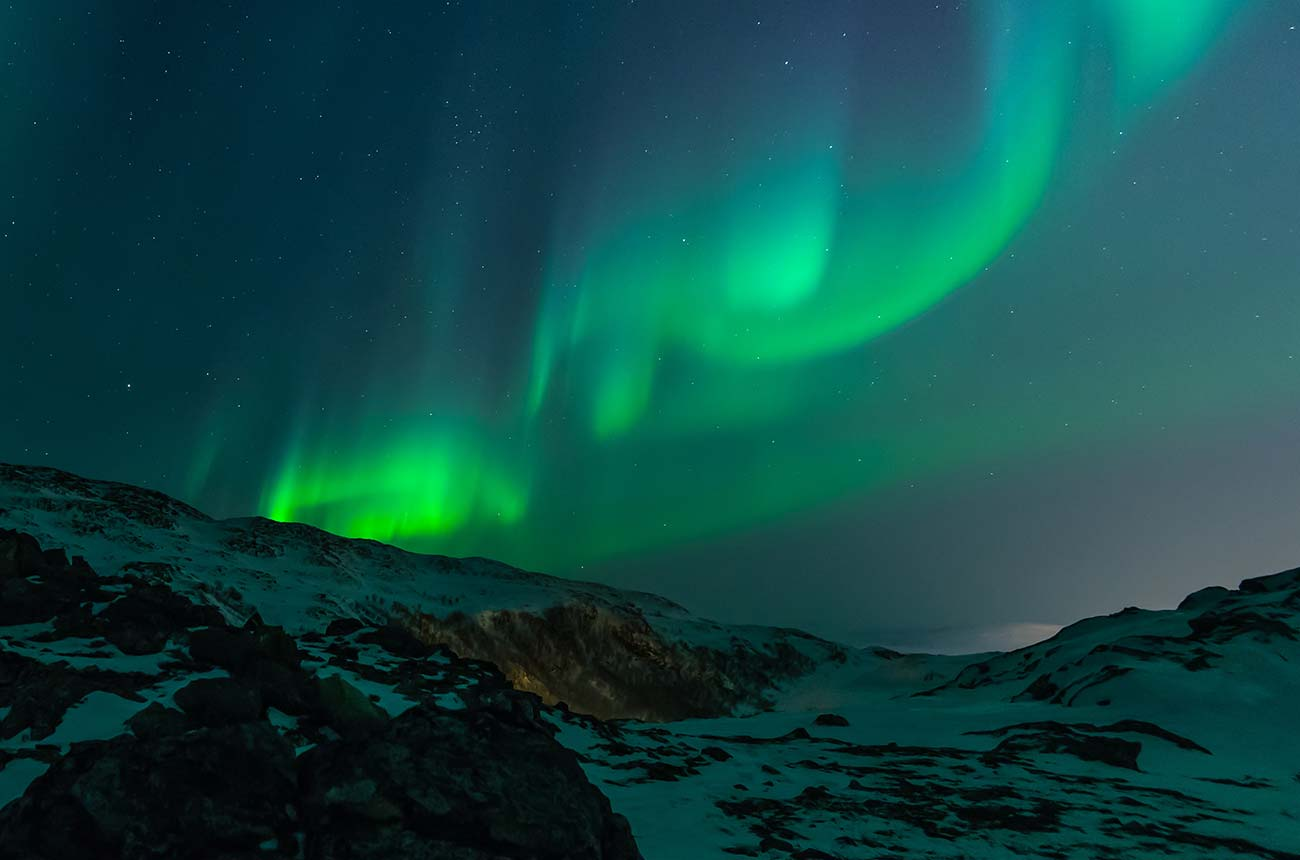
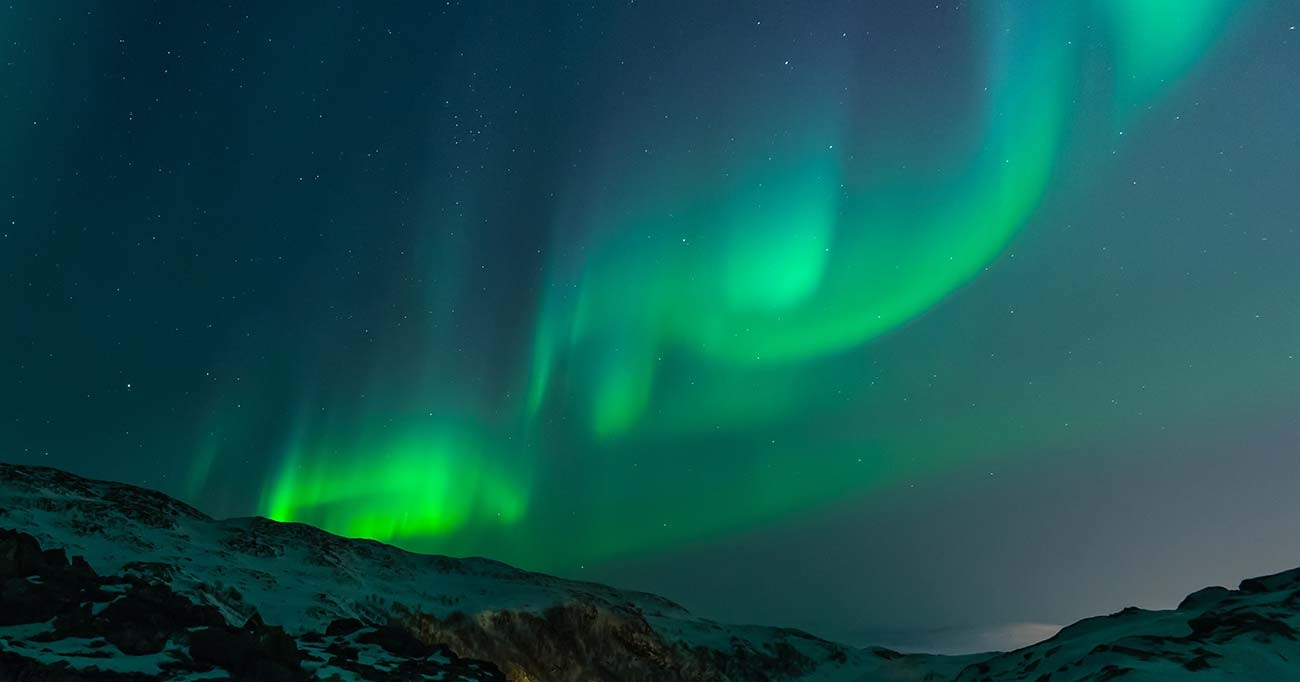
Готовая страница с фото и стилями

diff --git a/the-road-ahead.html b/the-road-ahead.html
@@ -1,34 +1,61 @@
 <!DOCTYPE html>
 <html>
     <head>
+    <link href="C:/Users/User/Desktop/Far manager/!WEB_LABS/WebCourse/styles.css" rel="stylesheet">
     <title> The Road Ahead </title>
-    <style>
-        .frame1 
-          {
-            width: 940px;
-            height: 40px;
-            top: 17px;
-            left: 250px;
-            background: #df3e3e;
-            padding: 5px;
-            padding-right: 20px;
-            float: left;
-          }
-    </style>
-
     </head>
     <body>
-        <h1> Hello World</h1>
-        <div class="frame1">
-              
+      <p class="Escape">Escape.</p>
+      <div class="CategoriesLinks">
+        <a class="HOME"> HOME </a> <a class="CATEGORIES"> CATEGORIES </a> 
+        <a class="ABOUT" >ABOUT </a> <a class="CONTACT"> CONTACT </a>
+      </div>
+      <h1 class="MainHeader"> The Road Ahead </h1>
+      <p class="Desc">The road ahead might be paved - it might not be.</p>
+      <img src="C:/Users/User/Desktop/Far manager/!WEB_LABS/WebCourse/image.png" class="Image" alt="Unfound Picture">
+      <div class="Text">
+      <p> 
+          Dark spruce forest frowned on either side the frozen waterway. The trees had been stripped by a recent wind of their white 
+          covering of frost, and they seemed to lean towards each other, black and ominous, in the fading light. A vast silence reigned 
+          over the land. The land itself was a desolation, lifeless, without movement, so lone and cold that the spirit of it was not 
+          even that of sadness. There was a hint in it of laughter, but of a laughter more terrible than any sadness—a laughter that was 
+          mirthless as the smile of the sphinx, a laughter cold as the frost and partaking of the grimness of infallibility. It was the 
+          masterful and incommunicable wisdom of eternity laughing at the futility of life and the effort of life. It was the Wild, the 
+          savage, frozen-hearted Northland Wild. 
+      </p>
+      <p> 
+          But there was life, abroad in the land and defiant. Down the frozen waterway toiled a string of wolfish dogs. Their bristly 
+          fur was rimed with frost. Their breath froze in the air as it left their mouths, spouting forth in spumes of vapour that 
+          settled upon the hair of their bodies and formed into crystals of frost. Leather harness was on the dogs, and leather traces 
+          attached them to a sled which dragged along behind. The sled was without runners. It was made of stout birch-bark, and its 
+          full surface rested on the snow. The front end of the sled was turned up, like a scroll, in order to force down and under 
+          the bore of soft snow that surged like a wave before it. On the sled, securely lashed, was a long and narrow oblong box. 
+          There were other things on the sled—blankets, an axe, and a coffee-pot and frying-pan; but prominent, occupying most of the 
+          space, was the long and narrow oblong box. </p>
+      <p> 
+          In advance of the dogs, on wide snowshoes, toiled a man. At the rear of the sled toiled a second man. On the sled, in the box,
+          lay a third man whose toil was over,—a man whom the Wild had conquered and beaten down until he would never move nor struggle 
+          again. It is not the way of the Wild to like movement. Life is an offence to it, for life is movement; and the Wild aims 
+          always to destroy movement. It freezes the water to prevent it running to the sea; it drives the sap out of the trees till 
+          they are frozen to their mighty hearts; and most ferociously and terribly of all does the Wild harry and crush into submission
+          man—man who is the most restless of life, ever in revolt against the dictum that all movement must in the end come to the 
+          cessation of movement. 
+      </p>
+      <p> 
+          But at front and rear, unawed and indomitable, toiled the two men who were not yet dead. Their bodies were covered with fur 
+          and soft-tanned leather. Eyelashes and cheeks and lips were so coated with the crystals from their frozen breath that their 
+          faces were not discernible. This gave them the seeming of ghostly masques, undertakers in a spectral world at the funeral of 
+          some ghost. But under it all they were men, penetrating the land of desolation and mockery and silence, puny adventurers bent 
+          on colossal adventure, pitting themselves against the might of a world as remote and alien and pulseless as the abysses of 
+          space. 
+      </p>
+      </div>
+      <footer>
+        <p class="Escape">Escape.</p>
+        <div class="CategoriesLinks">
+          <a class="HOME"> HOME </a> <a class="CATEGORIES"> CATEGORIES </a> 
+          <a class="ABOUT" >ABOUT </a> <a class="CONTACT"> CONTACT </a>
         </div>
-        <img
-        class="fit-picture"
-        src="C:\Users\User\Desktop\Far manager\!WEB_LABS\LAB1\image.png"
-        Width="1440px"
-        Height="534px"
-        Top="360px"
-        Radius="3px" 
-        />
+      </footer>
     </body>
 </html>

diff --git a/styles.css b/styles.css
@@ -1,0 +1,153 @@
+.Escape
+{
+  height: 26px;
+  width: 92px;
+  margin-left: 250px;
+  margin-top: 20px;
+  color: rgba(46, 46, 46, 1);
+  font-family: Lora;
+  font-size: 26px;
+  font-weight: 400;
+  line-height: 26px;
+  letter-spacing: 0em;
+  text-align: left;
+  display: inline;  
+}
+.CategoriesLinks
+{
+  color: rgba(46, 46, 46, 1);    
+  font-family: Oxygen;
+  font-size: 12px;
+  font-weight: 400;
+  line-height: 20px;
+  letter-spacing: 0.6000000238418579px;
+  text-align: left;    
+  display: inline;
+}
+.HOME
+{
+  width: 39px;
+  height: 20px;
+  margin-top: 27px;
+  margin-left: 491px; 
+}
+.CATEGORIES
+{
+  width: 78px;
+  height: 20px;
+  margin-top: 27x;
+  margin-left: 41px;       
+}
+.ABOUT
+{
+  width: 78px;
+  height: 20px;
+  margin-top: 27x;
+  margin-left: 40px;       
+}
+.CONTACT
+{
+  width: 78px;
+  height: 20px;
+  margin-top: 27x;
+  margin-left: 40px;       
+}
+.MainHeader
+{
+  height: 51px;
+  width: 498px;
+  margin-left: 471px;
+  margin-top: 156px;
+  font-family: Lora;
+  font-size: 50px;
+  font-weight: 400;
+  line-height: 51px;
+  letter-spacing: 2px;
+  text-align: center;
+  color: rgba(46, 46, 46, 1); 
+  display: block;  
+  }
+.Desc
+{
+  width: 504px;
+  height: 20px;
+  margin-top: 20px;
+  margin-left: 468px;
+  font-family: Oxygen;
+  font-size: 17px;
+  font-weight: 400;
+  line-height: 20px;
+  letter-spacing: 0em;
+  text-align: center;
+  color: rgba(46, 46, 46, 0.63);   
+}
+.Image
+{
+  width: 1440px;
+  height: 534px;
+  margin-top: 113px;
+  border-radius: 3px;
+}
+.Text
+{
+  width: 960px;
+  height: 1431px;
+  margin-top: 140px;
+  margin-left: 240px;
+  margin-right: 240px;
+  font-family: Oxygen;
+  font-size: 24px;
+  font-weight: 400;
+  line-height: 35px;
+  letter-spacing: 0em;
+  text-align: left;
+  color: rgba(16, 19, 21, 1);  
+}
+footer
+{
+  background-image: url(footer.png); 
+  width: 1440px;
+  height: 89px; 
+  
+}
+footer .CategoriesLinks
+{
+  color:rgba(255, 255, 255, 0.6);
+}
+footer .Escape
+{
+  color: rgba(255, 255, 255, 0.6);
+  height: 26px;
+  width: 92px;
+  margin-left: 250px;
+  margin-top: 31px;
+  margin-bottom: 32px;
+}
+footer .HOME
+{
+  width: 39px;
+  height: 20px;
+  margin-top: 27px;
+  margin-left: 576px; 
+}
+footer .CATEGORIES
+{
+  width: 78px;
+  height: 20px;
+  margin-top: 27x;
+  margin-left: 20px;       
+}
+footer .ABOUT
+{
+  width: 78px;
+  height: 20px;
+  margin-top: 27x;
+  margin-left: 20px;       
+}
+footer .CONTACT
+{
+  width: 78px;
+  height: 20px;
+  margin-top: 27px;
+  margin-left: 20px;       
+}
